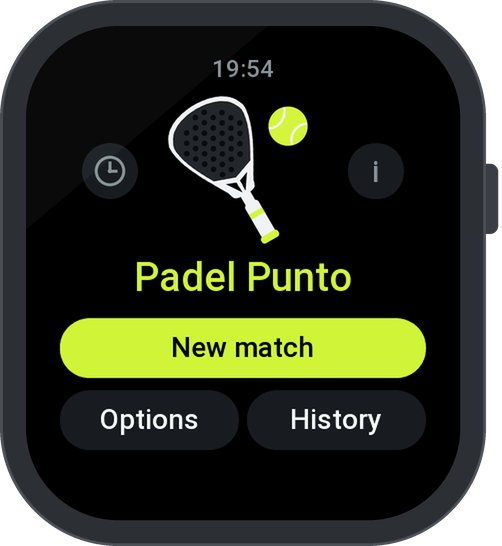
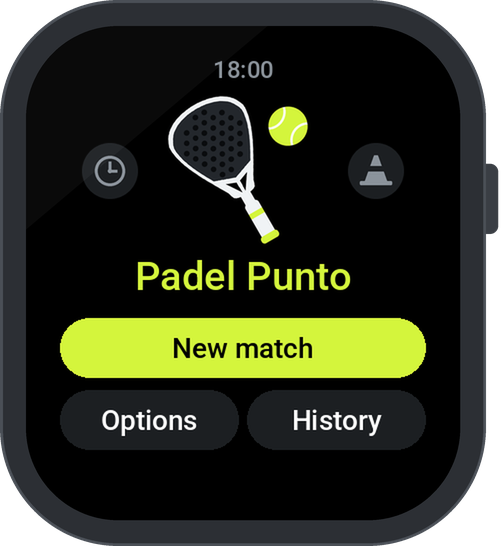
README: start screen with the training cone, a training picture, all three watches in the install guide
The start screen and the training are drawn from the simulated watch (tools/screens.mjs),
like the racket spin.

diff --git a/tools/readme_art.py b/tools/readme_art.py
@@ -1,9 +1,9 @@
-# Draws the pictures for the GitHub README from the simulator screenshots in docs/images/screenshots:
-# the banner (also used as the repo's social preview, with an Active 3 behind the Bip 6) and each
-# screen in a Bip 6 watch frame.
-# The racket spin (docs/images/watch/serve-spin.webp, animated) is drawn from the widgets
-# that tools/serve_spin.mjs records on the simulated watch, in Roboto like the simulator's font
-# (downloaded once into ~/.cache/padelpunto).
+# Draws the pictures for the GitHub README: the banner (also used as the repo's social preview, with
+# an Active 3 behind the Bip 6) and each screen in a Bip 6 watch frame. Serve, match and options are
+# simulator screenshots in docs/images/screenshots. The start screen and the training are drawn
+# from the widgets that tools/screens.mjs records on the simulated watch, the racket spin
+# (docs/images/watch/serve-spin.webp, animated) from those of tools/serve_spin.mjs, both in Roboto
+# like the simulator's font (downloaded once into ~/.cache/padelpunto).
 # Usage: python3 tools/readme_art.py   (writes docs/images/banner.png and docs/images/watch/*.png)
 import json
 import math
@@ -173,11 +173,11 @@ def banner():
     d.text((x, 604), 'Bip 6 · Active 2 (Square) · Bip Max', font=font(19, 'Regular'), fill=(92, 99, 107))
 
     shot = lambda n: Image.open(os.path.join(SHOTS, f'{n}.png'))
-    place(img, round_watch(shot('start'), 0.6), 660, 120, angle=9)
+    place(img, round_watch(recorded()['start'], 0.6), 660, 120, angle=9)
     place(img, watch(shot('match'), 0.8), 850, 82, angle=-5)
     return img.convert('RGB')
 
-# ---- drawing recorded widgets like the watch (only the kinds page/serve uses) ----
+# ---- drawing recorded widgets like the watch (only the kinds the recorded pages use) ----
 
 def roboto(size, cache={}):
     if not os.path.exists(ROBOTO):
@@ -208,12 +208,20 @@ def draw_screen(widgets):
             d.rounded_rectangle(box, radius=p.get('radius', 0), fill=rgb(p['color']))
         elif t == 'TEXT':
             draw_text(d, p, p.get('color', 0xffffff))
+        elif t == 'CIRCLE':
+            cx, cy, r = p['center_x'], p['center_y'], p['radius']
+            d.ellipse([cx - r, cy - r, cx + r, cy + r], fill=rgb(p['color']))
+        elif t == 'BUTTON' and p.get('normal_src'):
+            im = Image.open(os.path.join(ASSETS, p['normal_src'])).convert('RGBA')
+            img.alpha_composite(im.resize((p['w'], p['h']), Image.LANCZOS), (p['x'], p['y']))
         elif t == 'BUTTON':
             d.rounded_rectangle(box, radius=p.get('radius', 0), fill=rgb(p['normal_color']))
             draw_text(d, p, p.get('color', 0xffffff))
         elif t == 'IMG':
             # placed at pos_x/pos_y in its box, turned clockwise by angle around center_x/center_y
             im = Image.open(os.path.join(ASSETS, p['src'])).convert('RGBA')
+            if not p.get('pos_x') and not p.get('angle'):
+                im = im.resize((p['w'], p['h']), Image.LANCZOS)
             layer = Image.new('RGBA', (p['w'], p['h']), (0, 0, 0, 0))
             layer.alpha_composite(im, (round(p.get('pos_x', 0)), round(p.get('pos_y', 0))))
             if p.get('angle'):
@@ -227,6 +235,14 @@ def tap(img, x, y):
     ImageDraw.Draw(o).ellipse([x - 30, y - 30, x + 30, y + 30], fill=(255, 255, 255, 70), outline=(255, 255, 255, 170), width=3)
     img.alpha_composite(o)
     return img
+
+# The start screen and the training, drawn from tools/screens.mjs (recorded once per run).
+def recorded(cache={}):
+    if not cache:
+        rec = subprocess.run(['node', '--import', './test/mock/setup.mjs', 'tools/screens.mjs'], cwd=ROOT,
+                             capture_output=True, text=True, check=True)
+        cache.update({n: draw_screen(w) for n, w in json.loads(rec.stdout).items()})
+    return cache
 
 # The racket spin as animation frames: the serve page, a tap on "Random", a tap on "Spin", the spin
 # and the result, then it starts over.
@@ -246,8 +262,10 @@ def serve_spin(k=0.8):
 if __name__ == '__main__':
     os.makedirs(os.path.join(IMAGES, 'watch'), exist_ok=True)
     banner().save(os.path.join(IMAGES, 'banner.png'), optimize=True)
-    for n in ('start', 'serve', 'match', 'options'):
+    for n in ('serve', 'match', 'options'):
         watch(Image.open(os.path.join(SHOTS, f'{n}.png'))).save(os.path.join(IMAGES, 'watch', f'{n}.png'), optimize=True)
+    for n, screen in recorded().items():
+        watch(screen).save(os.path.join(IMAGES, 'watch', f'{n}.png'), optimize=True)
     frames, ms = serve_spin()
     # WebP: a tenth of the size of an animated PNG, with smooth (alpha) edges unlike a GIF
     frames[0].save(os.path.join(IMAGES, 'watch', 'serve-spin.webp'), save_all=True, append_images=frames[1:],

diff --git a/README.md b/README.md
@@ -29,7 +29,7 @@
   &nbsp;
   <img src="docs/images/watch/serve-spin.webp" alt="A spinning racket decides who serves" width="230">
   &nbsp;
-  <img src="docs/images/watch/options.png" alt="Options" width="230">
+  <img src="docs/images/watch/training.png" alt="Training to 21: match point for green at 20:17" width="230">
 </p>
 
 ## 🎾 Made for the court
@@ -83,7 +83,7 @@
 
 **⌚ On court**
 
-- **Your point of view:** your team at the bottom, a green bar shows who serves from which side
+- **Your point of view:** your team at the bottom, a lime bar shows who serves from which side
 - **Who serves first:** pick a team, or let a spinning racket decide (a fair 50:50)
 - **Score call** (optional): in English, the padel standard, offline, low or high volume
 - **Undo** any number of points, even the winning one until you tap “End”
@@ -97,7 +97,7 @@
 - **History** of the last 30 matches
 - **Languages:** English, German, Spanish, Italian and French
 - **Battery-friendly:** redraws only what changes, wakes the watch once a minute
-- **Diagnostics:** tap the logo on the info page 5 times for watch, storage and error log
+- **Diagnostics:** tap the logo on the info page (Options → i) 5 times for watch, storage and error log
 
 ## ⌚ Get it on your watch
 

diff --git a/docs/DEVELOPMENT.md b/docs/DEVELOPMENT.md
@@ -27,7 +27,7 @@ python3 tools/logo.py assets/default.s    # redraw logo, app icon and the spinni
 ~/.cache/padelpunto/tts/bin/python tools/voice.py <voices-dir> assets/default.s   # regenerate the score-call words (setup at the top of the file; licenses in CREDITS.md)
 ```
 
-`python3 tools/readme_art.py` redraws the banner and the watch pictures for the README from `docs/images/screenshots/` (simulator screenshots, 390×450).
-The animated racket spin (`serve-spin.webp`) is recorded on the simulated watch by `tools/serve_spin.mjs` and drawn in Roboto, which the script downloads once into `~/.cache/padelpunto`.
+`python3 tools/readme_art.py` redraws the banner and the watch pictures for the README. Serve, match and options come from `docs/images/screenshots/` (simulator screenshots, 390×450).
+The start screen and the training (`tools/screens.mjs`) and the animated racket spin (`serve-spin.webp`, `tools/serve_spin.mjs`) are recorded on the simulated watch and drawn in Roboto, which the script downloads once into `~/.cache/padelpunto`.
 
 ← [Back to the README](../README.md)

diff --git a/docs/INSTALL.md b/docs/INSTALL.md
@@ -46,7 +46,7 @@ zeus preview
 ```
 
 The first time, `zeus preview` opens your browser to log in with your Zepp account.
-Then choose **Amazfit Bip 6** and a QR code appears.
+Then choose your watch (**Amazfit Bip 6**, **Active 2 (Square)** or **Bip Max**) and a QR code appears.
 
 On Windows, if PowerShell says that `zeus.ps1` cannot be loaded, run
 `Set-ExecutionPolicy -Scope CurrentUser RemoteSigned` once, or use the Command Prompt (`cmd`) instead.
